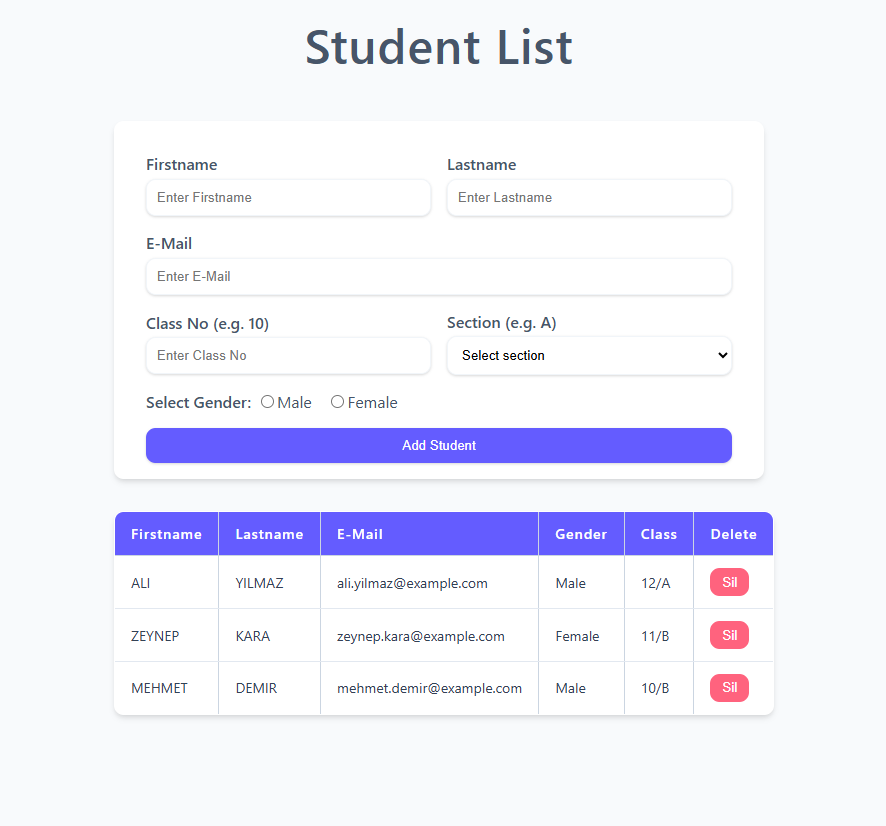
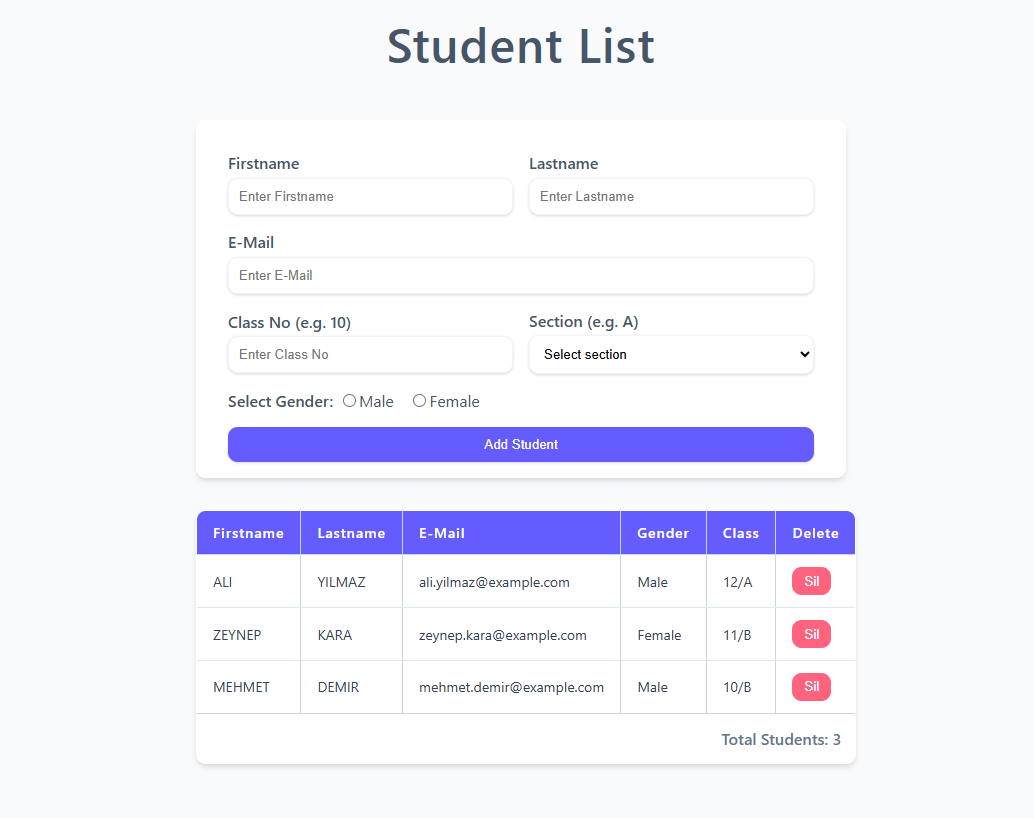
Add live demo link and table footer for student count

diff --git a/index.html b/index.html
@@ -3,6 +3,8 @@
   <head>
     <meta charset="UTF-8" />
     <meta name="viewport" content="width=device-width, initial-scale=1.0" />
+    <link rel="shortcut icon" href="./images/favicon.ico" type="image/x-icon" />
+    <link rel="icon" href="./images/favicon.ico" type="image/x-icon" />
     <title>Student List</title>
     <link rel="stylesheet" href="style.css" />
   </head>
@@ -14,7 +16,6 @@
     <div class="container">
       <!-- Form Field -->
       <form type="submit" id="studentForm">
-      
         <div class="form-content">
           <div class="form-item">
             <label for="name">Firstname</label>
@@ -111,6 +112,17 @@
           </tr>
         </thead>
         <tbody id="studentTableBody"></tbody>
+        <tfoot>
+          <tr>
+            <td
+              colspan="6"
+              id="studentCount"
+            
+            >
+              Total Students: 0
+            </td>
+          </tr>
+        </tfoot>
       </table>
     </div>
 

diff --git a/script.js b/script.js
@@ -32,11 +32,12 @@ $(function () {
 
   // Table body variable has been defined
   const studentTableBody = $("#studentTableBody");
-
+  const studentCount = $("#studentCount");
   // When the page first loads, the data will be added to the table
   function renderList() {
     studentTableBody.empty();
     let studentListHtml = null;
+    studentCount.text( `Total Students:  ${studentData.length}`);
     for (let student of studentData) {
       studentListHtml = `
                       <tr class="list-item">

diff --git a/style.css b/style.css
@@ -211,6 +211,15 @@ tbody tr:last-child td {
   border-bottom: none;
 }
 
+#studentCount{
+color: var(--grey-500);
+font-weight: 600;
+font-size: 1rem;
+padding: 0.875rem;
+text-align: right;
+
+}
+
 th,
 td {
   text-align: left;

diff --git a/readme.md b/readme.md
@@ -1,5 +1,9 @@
 # Student Management Application
 
+
+## Live Demo: [Application Demo](https://students-application.netlify.app/)
+
+
 ## Description
 
 This application allows users to add student information including **first name**, **last name**, **email**, **class**, and **gender**, and display the students in a table. Users can:
@@ -26,8 +30,8 @@ The project is developed using **HTML**, **CSS**, **JavaScript**, and **jQuery**
 
 ## Technologies Used
 
-- HTML5
-- CSS3 (with CSS variables and responsive media queries)
+- HTML
+- CSS 
 - JavaScript (ES6+)
 - jQuery
 
@@ -68,3 +72,17 @@ cd Insider_code_craft_jquery_homework1
 ### 3. Open in Browser
 
 You can open the `index.html` file by double-clicking it or using a live server (e.g., VSCode Live Server).
+
+
+
+---
+
+##  Resources
+
+* [HTML Tables – W3Schools](https://www.w3schools.com/html/html_tables.asp)  
+
+* [jQuery .on() Method Documentation – jQuery API](https://api.jquery.com/on/#on-events-selector-data-handler)
+  Official documentation for handling events in jQuery using the `.on()` method.
+
+* [jQuery Tutorial – W3Schools](https://www.w3schools.com/jquery/default.asp)
+
